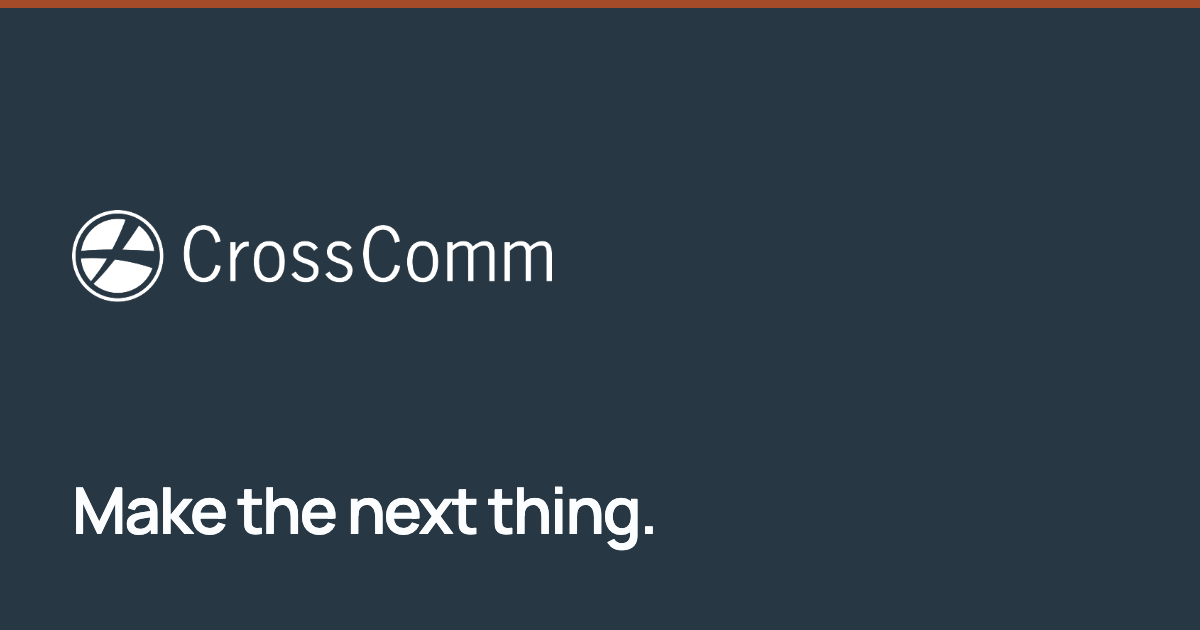
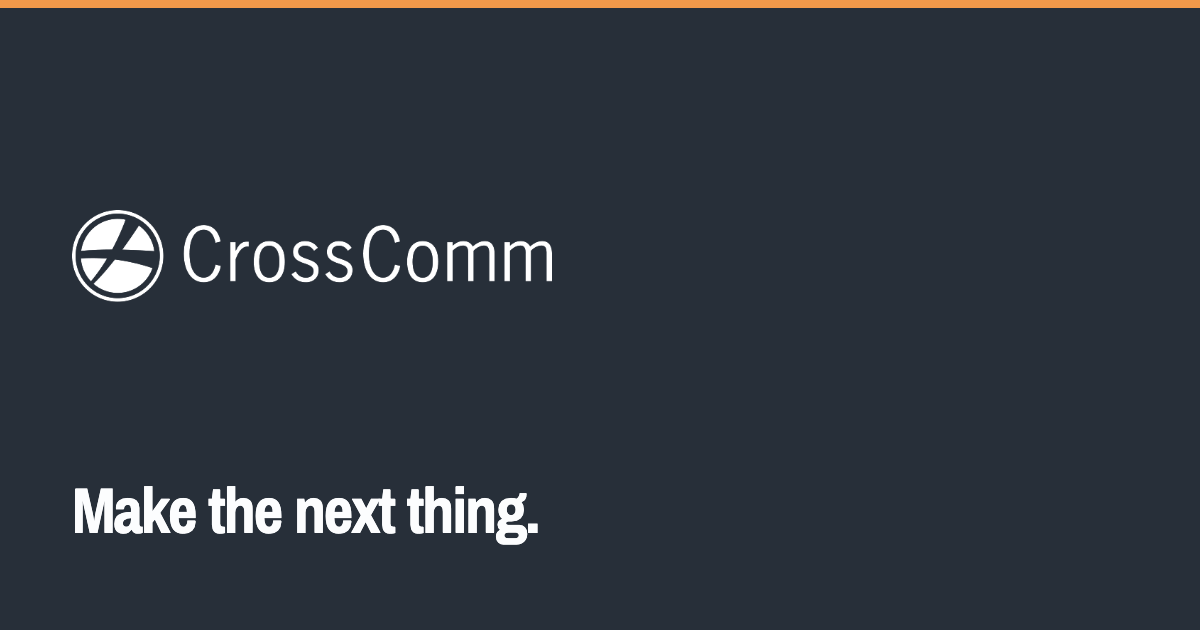
design: apply CrossComm brand fonts and colors
- Archivo Narrow (headings) and Open Sans (body) replace Manrope and
  Source Sans 3, per the CrossComm brand templates.
- Slate becomes brand Dark Navy #272f39.
- Primary controls use brand Orange #f2994a with a navy label; orange is
  also the accent text on navy. Text on light surfaces uses a deeper
  brand-hue orange (#9b5518) so it passes 4.5:1.
- Social card re-rendered with the brand font and colors.
- design.md updated, including recomputed contrast ratios.

Changed region(s): [[0.0617, 0.754, 0.555, 0.8746], [0.0, 0.0, 1.0, 0.0302]]

diff --git a/client/src/styles.css b/client/src/styles.css
@@ -1,26 +1,28 @@
-@import "@fontsource/manrope/latin-600.css";
-@import "@fontsource/source-sans-3/latin-400.css";
-@import "@fontsource/source-sans-3/latin-600.css";
+@import "@fontsource/archivo-narrow/latin-700.css";
+@import "@fontsource/open-sans/latin-400.css";
+@import "@fontsource/open-sans/latin-600.css";
 @import "@fontsource/ibm-plex-mono/latin-400.css";
 
 :root {
   --ice: #f2f5f7;
   --ice-deep: #e3eaf0;
-  --slate: #273743;
+  --slate: #272f39;
   --slate-soft: #465d6e;
   --line: #cad5de;
-  --copper: #a64b2a;
-  --copper-hover: #84361c;
-  --copper-light: #d89570;
+  --copper: #9b5518;
+  --copper-hover: #854914;
+  --copper-light: #f2994a;
+  --orange: #f2994a;
+  --orange-hover: #f6b37a;
   --teal-pale: #e1eef0;
   --teal-deep: #265865;
   --white: #fcfdfe;
   --brand-blue: #89b6d5;
   --danger: #7a1e12;
   --photo-matte: #123f4a;
-  --slate-deep: #1b2831;
-  --display: "Manrope", "Segoe UI", sans-serif;
-  --sans: "Source Sans 3", "Source Sans Pro", "Segoe UI", sans-serif;
+  --slate-deep: #1b2129;
+  --display: "Archivo Narrow", "Arial Narrow", "Helvetica Neue", sans-serif;
+  --sans: "Open Sans", "Segoe UI", sans-serif;
   --mono: "IBM Plex Mono", ui-monospace, "SFMono-Regular", Menlo, monospace;
   --page: 1320px;
   --header: 4.75rem;
@@ -65,7 +67,7 @@ h3 {
   font-family: var(--display);
   font-weight: 600;
   line-height: 1.05;
-  letter-spacing: -0.03em;
+  letter-spacing: -0.01em;
   margin: 0;
 }
 
@@ -218,7 +220,7 @@ a:hover {
 .nav-desktop .talk:hover,
 .nav-noscript .talk,
 .nav-noscript .talk:hover {
-  color: var(--white);
+  color: var(--slate);
 }
 
 .talk {
@@ -227,15 +229,15 @@ a:hover {
   justify-content: center;
   min-height: 44px;
   padding: 0.45rem 0.95rem;
-  background: var(--copper);
-  color: var(--white);
+  background: var(--orange);
+  color: var(--slate);
   text-decoration: none;
   font-weight: 600;
 }
 
 .talk:hover {
-  background: var(--copper-hover);
-  color: var(--white);
+  background: var(--orange-hover);
+  color: var(--slate);
 }
 
 .nav-desktop .talk[aria-current="page"] {
@@ -255,7 +257,7 @@ main h1,
   font-size: clamp(3.25rem, 7vw, 6.875rem);
   font-weight: 600;
   line-height: 0.92;
-  letter-spacing: -0.04em;
+  letter-spacing: -0.01em;
 }
 
 .display .line {
@@ -314,13 +316,13 @@ main h1,
 }
 
 .btn-deep {
-  background: var(--copper);
-  color: var(--white);
+  background: var(--orange);
+  color: var(--slate);
 }
 
 .btn-deep:hover {
-  background: var(--copper-hover);
-  color: var(--white);
+  background: var(--orange-hover);
+  color: var(--slate);
 }
 
 .btn-line {
@@ -577,7 +579,7 @@ main h1,
   font-family: var(--display);
   font-size: clamp(1.7rem, 3vw, 2.6rem);
   font-weight: 600;
-  letter-spacing: -0.03em;
+  letter-spacing: -0.01em;
   line-height: 1.05;
 }
 
@@ -635,7 +637,7 @@ main h1,
   font-size: clamp(1.8rem, 3vw, 2.6rem);
   font-weight: 600;
   color: var(--copper);
-  letter-spacing: -0.04em;
+  letter-spacing: -0.01em;
   line-height: 1;
 }
 
@@ -832,7 +834,7 @@ main h1,
   font-weight: 600;
   font-size: clamp(1.35rem, 2vw, 1.75rem);
   line-height: 1.25;
-  letter-spacing: -0.02em;
+  letter-spacing: -0.01em;
 }
 
 .faqs {
@@ -1068,7 +1070,7 @@ main h1,
   font-weight: 600;
   font-size: clamp(1.45rem, 2.5vw, 2rem);
   line-height: 1.25;
-  letter-spacing: -0.02em;
+  letter-spacing: -0.01em;
 }
 
 .phases {
@@ -1138,7 +1140,7 @@ main h1,
   font-weight: 600;
   font-size: clamp(1.7rem, 3vw, 2.4rem);
   line-height: 1.15;
-  letter-spacing: -0.03em;
+  letter-spacing: -0.01em;
   margin-bottom: 0.4rem;
 }
 
@@ -1226,7 +1228,7 @@ textarea {
   font-weight: 600;
   font-size: clamp(6rem, 22vw, 14rem);
   line-height: 0.8;
-  letter-spacing: -0.06em;
+  letter-spacing: -0.01em;
   color: var(--copper);
 }
 
@@ -1252,7 +1254,7 @@ textarea {
   font-family: var(--display);
   font-weight: 600;
   font-size: 1.6rem;
-  letter-spacing: -0.03em;
+  letter-spacing: -0.01em;
 }
 
 .strip-inner a {
@@ -1284,7 +1286,7 @@ textarea {
 
 .report-dialog .btn-deep,
 .report-dialog .btn-deep:hover {
-  color: var(--white);
+  color: var(--slate);
 }
 
 .footer-grid {
@@ -1584,7 +1586,7 @@ legend {
     line-height: 1.15;
     color: var(--ice);
     text-decoration: none;
-    letter-spacing: -0.03em;
+    letter-spacing: -0.01em;
   }
 
   .nav-mobile .talk {
@@ -1592,7 +1594,7 @@ legend {
     align-self: flex-start;
     font-family: var(--sans);
     font-size: 1rem;
-    color: var(--white);
+    color: var(--slate);
   }
 
   .nav-noscript {

diff --git a/scripts/og-card.html b/scripts/og-card.html
@@ -5,11 +5,11 @@
     <title>CrossComm social card</title>
     <style>
       @font-face {
-        font-family: "Manrope";
+        font-family: "Archivo Narrow";
         font-style: normal;
-        font-weight: 600;
+        font-weight: 700;
         font-display: block;
-        src: url("../node_modules/@fontsource/manrope/files/manrope-latin-600-normal.woff2") format("woff2");
+        src: url("../node_modules/@fontsource/archivo-narrow/files/archivo-narrow-latin-700-normal.woff2") format("woff2");
       }
       html,
       body {
@@ -18,7 +18,7 @@
       .card {
         width: 1200px;
         height: 630px;
-        background: #273743;
+        background: #272f39;
         position: relative;
         overflow: hidden;
       }
@@ -28,7 +28,7 @@
         left: 0;
         width: 1200px;
         height: 8px;
-        background: #a64b2a;
+        background: #f2994a;
       }
       img {
         position: absolute;
@@ -43,8 +43,8 @@
         bottom: 88px;
         margin: 0;
         color: #fcfdfe;
-        font-family: Manrope, "Segoe UI", sans-serif;
-        font-weight: 600;
+        font-family: "Archivo Narrow", "Arial Narrow", sans-serif;
+        font-weight: 700;
         font-style: normal;
         font-size: 64px;
         line-height: 1;

diff --git a/scripts/render-og.ts b/scripts/render-og.ts
@@ -39,18 +39,18 @@ const font = await page.evaluate(async () => {
   await document.fonts.ready;
   const face = [...document.fonts].find((entry) => {
     const family = entry.family.replaceAll('"', "").replaceAll("'", "");
-    return family === "Manrope" && entry.weight === "600" && entry.style === "normal";
+    return family === "Archivo Narrow" && entry.weight === "700" && entry.style === "normal";
   });
   if (!face) {
-    throw new Error("Manrope weight 600 normal is not registered");
+    throw new Error("Archivo Narrow weight 700 normal is not registered");
   }
   await face.load();
-  const check = document.fonts.check("600 16px Manrope");
+  const check = document.fonts.check("700 16px \"Archivo Narrow\"");
   return { status: face.status, check };
 });
 
 if (font.status !== "loaded" || !font.check) {
-  throw new Error(`Manrope 600 did not load (status ${font.status}, check ${font.check})`);
+  throw new Error(`Archivo Narrow 700 did not load (status ${font.status}, check ${font.check})`);
 }
 
 await page.screenshot({ path: out, type: "png", clip: { x: 0, y: 0, width: 1200, height: 630 } });

diff --git a/design.md b/design.md
@@ -2,7 +2,7 @@
 
 The working design reference for the CrossComm review site, based on the implementation as of 4 October 2026. Maintain it alongside changes to the site. This documents the review build; it is not a company-wide brand approval.
 
-The direction for this review build is an editorial technology studio: cool blue-grey and ice fields, the original CrossComm wordmark, a restrained copper complement, and muted teal plus the original favicon blue as accents. That continues three choices already made for the build: keep the existing public logo, use a cool blue-grey field with those complements, and share the React/Vite and content-record architecture, rather than inventing a new one. CrossComm paths follow its own legacy URL inventory. Do not add purple gradients, glowing orbs, large orange panels, or stock dashboard charts.
+Fonts and the navy and orange come from the CrossComm brand templates (Google Drive, CrossComm Branding / Final): Archivo Narrow bold for headings, Open Sans for body, Dark Navy `#272F39`, Orange `#F2994A`. The direction for this review build is an editorial technology studio on that brand: navy and ice fields, the original CrossComm wordmark, brand orange for primary actions with a deeper orange for text on light surfaces, and muted teal plus the original favicon blue as accents. That continues three choices already made for the build: keep the existing public logo, use a cool blue-grey field with those complements, and share the React/Vite and content-record architecture, rather than inventing a new one. CrossComm paths follow its own legacy URL inventory. Do not add purple gradients, glowing orbs, large orange panels, or stock dashboard charts.
 
 ## Mark
 
@@ -12,9 +12,9 @@ Provenance and hashes live only in [docs/SOURCES.md](docs/SOURCES.md). Do not co
 | --- | --- |
 | `client/public/logo.png` | Original white wordmark. Intrinsic size 676×129. Header and footer render it at 205px wide, height automatic, in `.logo img` (`client/src/styles.css`). No stretch, filter, or recolor. Home link name is “CrossComm home” (`client/src/components/chrome.tsx`). |
 | `client/public/favicon.svg` | Original SVG favicon, linked from `client/index.html`. |
-| `client/public/og.png` | 1200×630 social card. Rendered offline from `scripts/og-card.html` by `scripts/render-og.ts`. Same logo file, unchanged, on slate with an 8px copper rule and the line “Make the next thing.” Not a public route. |
+| `client/public/og.png` | 1200×630 social card. Rendered offline from `scripts/og-card.html` by `scripts/render-og.ts`. Same logo file, unchanged, on brand navy with an 8px brand-orange rule and the line “Make the next thing.” Not a public route. |
 
-The card template sets the headline in self-hosted Manrope 600 at 64px. `scripts/og-card.html` loads `manrope-latin-600-normal.woff2` from `node_modules` with a file URL relative to the template. It does not request a font from the network. `scripts/render-og.ts` waits until that face is loaded and `document.fonts.ready` has settled before it writes `client/public/og.png`.
+The card template sets the headline in self-hosted Archivo Narrow 700 at 64px. `scripts/og-card.html` loads `archivo-narrow-latin-700-normal.woff2` from `node_modules` with a file URL relative to the template. It does not request a font from the network. `scripts/render-og.ts` waits until that face is loaded and `document.fonts.ready` has settled before it writes `client/public/og.png`.
 
 ## Color
 
@@ -24,13 +24,15 @@ Tokens are the custom properties on `:root` in `client/src/styles.css`. Hex valu
 | --- | --- | --- |
 | `--ice` | `#f2f5f7` | Page background. Selection text on slate. |
 | `--ice-deep` | `#e3eaf0` | Review banner, fallback note, footer tagline. |
-| `--slate` | `#273743` | Body text, header, footer, dark bands. |
+| `--slate` | `#272f39` | Brand Dark Navy. Body text, header, footer, dark bands, label on orange controls. |
 | `--slate-soft` | `#465d6e` | Secondary text. Also the border of inputs and textareas. |
 | `--line` | `#cad5de` | Dividers and decorative rules. Not the field border. |
-| `--copper` | `#a64b2a` | Default links, primary buttons, display accent, service numbers. |
-| `--copper-hover` | `#84361c` | Hover for copper links and primary buttons on light surfaces. |
-| `--copper-light` | `#d89570` | Footer links on slate only. Not body text on ice. |
-| `--white` | `#fcfdfe` | Label on copper controls. Footer link hover. |
+| `--copper` | `#9b5518` | Deeper brand-hue orange for text on light surfaces: default links, display accent, service numbers. Brand orange itself is too light for text on ice (2.03:1). |
+| `--copper-hover` | `#854914` | Hover for copper links on light surfaces. |
+| `--copper-light` | `#f2994a` | Brand Orange as text on navy: footer links, “Make it matter.” in the home hero. Not text on ice. |
+| `--orange` | `#f2994a` | Brand Orange fill for primary controls (`.btn-deep`, `.talk`), with a navy label. |
+| `--orange-hover` | `#f6b37a` | Hover fill for primary controls. |
+| `--white` | `#fcfdfe` | Footer link hover. Preview and code wells. |
 | `--teal-pale` | `#e1eef0` | Occasional panel and photo well. |
 | `--teal-deep` | `#265865` | Text on pale teal panels, and category tag labels (those tags also sit on ice). |
 | `--brand-blue` | `#89b6d5` | Header rule, current-page underline, focus ring on dark chrome. Not small text on ice. |
@@ -38,17 +40,17 @@ Tokens are the custom properties on `:root` in `client/src/styles.css`. Hex valu
 | `--photo-matte` | `#123f4a` | Well Aware card well only (`.slug-well-aware .media`). |
 | `--slate-deep` | `#1b2831` | Body of the home hero agent panel (`.agent-steps`) only. |
 
-On dark slate, footer anchors use `--copper-light` and turn `--white` on hover. Header navigation links are `--ice`, not light copper. Primary buttons stay `--white` on copper and on copper hover. The feedback dialog forces its links back to copper, because it sits on ice inside the dark footer.
+On dark slate, footer anchors use `--copper-light` and turn `--white` on hover. Header navigation links are `--ice`, not light copper. Primary buttons are a navy label on `--orange`, and on `--orange-hover`, everywhere, including the report dialog. The feedback dialog forces its links back to copper, because it sits on ice inside the dark footer.
 
 The home hero band draws its grid and sweep line in brand blue at 9% and 55% opacity, and the agent panel border in brand blue at 28%. Those are decoration, not text.
 
 Two colors are not tokens: the belief-list rule `#9db8bc`, and the dialog backdrop `rgba(39, 55, 67, 0.72)` (slate at 72% opacity).
 
-The ratios below are contrast math already recorded for these hex pairs. They are not a new measurement from this documentation pass, and they are not an axe or browser audit: slate on ice 11.19:1, slate-soft on ice 6.29:1, copper on ice 5.24:1, white on copper 5.63:1, white on copper hover 8.16:1, deep teal on pale teal 6.63:1, light copper on slate 4.93:1, brand blue on slate 5.67:1, copper on pale teal 4.83:1, danger on ice 9.49:1. Design targets are 4.5:1 for body text, 3:1 for large text, and 3:1 for focus indicators and other essential control boundaries. A pair meeting that math is not conformance.
+The ratios below are WCAG contrast math for these hex pairs, computed when the brand colors were applied. They are not an axe or browser audit: slate on ice 12.36:1, slate-soft on ice 6.29:1, copper on ice 5.17:1, copper hover on ice 6.48:1, slate on orange 6.08:1, slate on orange hover 7.51:1, deep teal on pale teal 6.63:1, orange on slate 6.08:1, orange on slate-deep 7.28:1, brand blue on slate 6.26:1, copper on pale teal 4.77:1, danger on ice 9.49:1. Design targets are 4.5:1 for body text, 3:1 for large text, and 3:1 for focus indicators and other essential control boundaries. A pair meeting that math is not conformance.
 
 ## Type
 
-Self-hosted, first four lines of `client/src/styles.css`: Manrope latin 600 (`@fontsource/manrope` 5.3.0), Source Sans 3 latin 400 and 600, IBM Plex Mono latin 400. Stacks are `--display`, `--sans`, and `--mono`, each with a system fallback. `--display` is `"Manrope", "Segoe UI", sans-serif`. Body is Source Sans 3 at `1.125rem` / line-height 1.6. Headings and other display text are Manrope 600, roman, line-height 1.05, letter-spacing `-0.03em`, unless a class overrides them. There is no italic display cut.
+Self-hosted, first four lines of `client/src/styles.css`: Archivo Narrow latin 700 (`@fontsource/archivo-narrow` 5.3.0), Open Sans latin 400 and 600 (`@fontsource/open-sans` 5.3.0), IBM Plex Mono latin 400. Archivo Narrow and Open Sans are the brand fonts. Stacks are `--display`, `--sans`, and `--mono`, each with a system fallback. `--display` is `"Archivo Narrow", "Arial Narrow", "Helvetica Neue", sans-serif`. Body is Open Sans at `1.125rem` / line-height 1.6. Headings and other display text are Archivo Narrow bold (rules ask for 600; only the 700 face is loaded, so 700 renders), roman, line-height 1.05, letter-spacing `-0.01em`, unless a class overrides them. There is no italic display cut.
 
 `clamp()` sizes are copied from the stylesheet. At a 16px root, `1rem` is 16px. These are current values, not a new scale.
 
@@ -80,18 +82,18 @@ Eyebrows are mono, `0.75rem`, weight 400, tracking `0.14em`, uppercase, in `--sl
 
 Vertical space is fluid. Examples from the same file: home hero padding `clamp(2.75rem, 6vw, 5.5rem)` on top, sections `clamp(4.25rem, 8vw, 7.25rem)`, interior pages `clamp(2rem, 4vw, 3.5rem)` on top. At 960px the home hero padding drops to `1.5rem 2rem` because the desktop crop is shorter.
 
-The header is sticky, `--header` is `4.75rem`, and a 1px `--brand-blue` rule sits on its bottom edge. Desktop links are Services, Work, Approach, and Insights, in ice at `1.05rem`, plus a copper “Let’s talk”. The current page gets an inset brand-blue underline. “Let’s talk” uses an ice underline instead, so the copper button does not grow a blue bar.
+The header is sticky, `--header` is `4.75rem`, and a 1px `--brand-blue` rule sits on its bottom edge. Desktop links are Services, Work, Approach, and Insights, in ice at `1.05rem`, plus a brand-orange “Let’s talk” with a navy label. The current page gets an inset brand-blue underline. “Let’s talk” uses an ice underline instead, so the orange button does not grow a blue bar.
 
-The mobile menu is `position: fixed` and, until placed, sits at `top: 100dvh` with `visibility: hidden`. When open, `client/src/components/Shell.tsx` sets `--nav-top` to the header’s bottom edge and adds `data-placed` so the panel becomes visible under the real header. Links there are Manrope 600 at `2.4rem`. The menu closes on Escape and when the viewport reaches 900px. Without JavaScript, `.nav-noscript` shows the same destinations in a wrapping row.
+The mobile menu is `position: fixed` and, until placed, sits at `top: 100dvh` with `visibility: hidden`. When open, `client/src/components/Shell.tsx` sets `--nav-top` to the header’s bottom edge and adds `data-placed` so the panel becomes visible under the real header. Links there are Archivo Narrow bold at `2.4rem`. The menu closes on Escape and when the viewport reaches 900px. Without JavaScript, `.nav-noscript` shows the same destinations in a wrapping row.
 
 ## Components
 
-- **Primary** (`.btn-deep`, header `.talk`): copper fill, white label, copper-hover fill. `.talk` is at least 44px tall. `.btn` is at least 48px.
+- **Primary** (`.btn-deep`, header `.talk`): brand-orange fill, navy label, lighter orange-hover fill. `.talk` is at least 44px tall. `.btn` is at least 48px.
 - **Secondary** (`.btn-line`): slate outline, slate label. Hover fills slate with ice text. Pressed filter chips do the same.
 - **Ghost** (`.btn-ghost`): ice outline and label for use on dark bands. Hover fills ice with slate text. `.btn-paper` is the ice-filled button on dark bands (slate label; hover fills white). It is not a paper color.
 - **Text links** (`.text-link`): slate, weight 600, no underline. Hover turns the label copper and, when motion is allowed, nudges the arrow 4px.
 - **Disabled**: `opacity: 0.55` and `cursor: not-allowed`.
-- **Services**: numbered rows, copper Manrope 600 index, title, copy, arrow. The whole row is one link.
+- **Services**: numbered rows, copper Archivo Narrow index, title, copy, arrow. The whole row is one link.
 - **Cases**: photograph in a 16/11 well (`.media`), pale teal behind the crop, mono uppercase caption, teal-deep tag with a `--line` border, then the title. `ProjectCard` in `client/src/components/chrome.tsx` uses a plain `p.caption` with no dot. The 0.45rem dot (`.sq`) is the home hero caption only, in `--copper-light` there. The case-study hero is 16/9. ACS CARES is the large home card (4/5 in that slot), with its own object position, not a fake device. Well Aware uses `--photo-matte` behind the image. The six files are `client/public/images/`. Alt text stays on the project record. Do not generate a picture and caption it as the client’s product. Rights are still open. See [docs/BACKLOG.md](docs/BACKLOG.md).
 - **FAQ**: question in an `h3`, answer in a visible paragraph. Not a disclosure widget.
 - **Contact**: fields are white with a `--slate-soft` border. The composer opens a `mailto:` draft or copies the brief. The status line says the mail app must send it. Nothing is stored here. The consultation form is the existing CrossComm form, opened in a new tab from a pale teal panel. A lead inbox is not wired. See [docs/BACKLOG.md](docs/BACKLOG.md).
